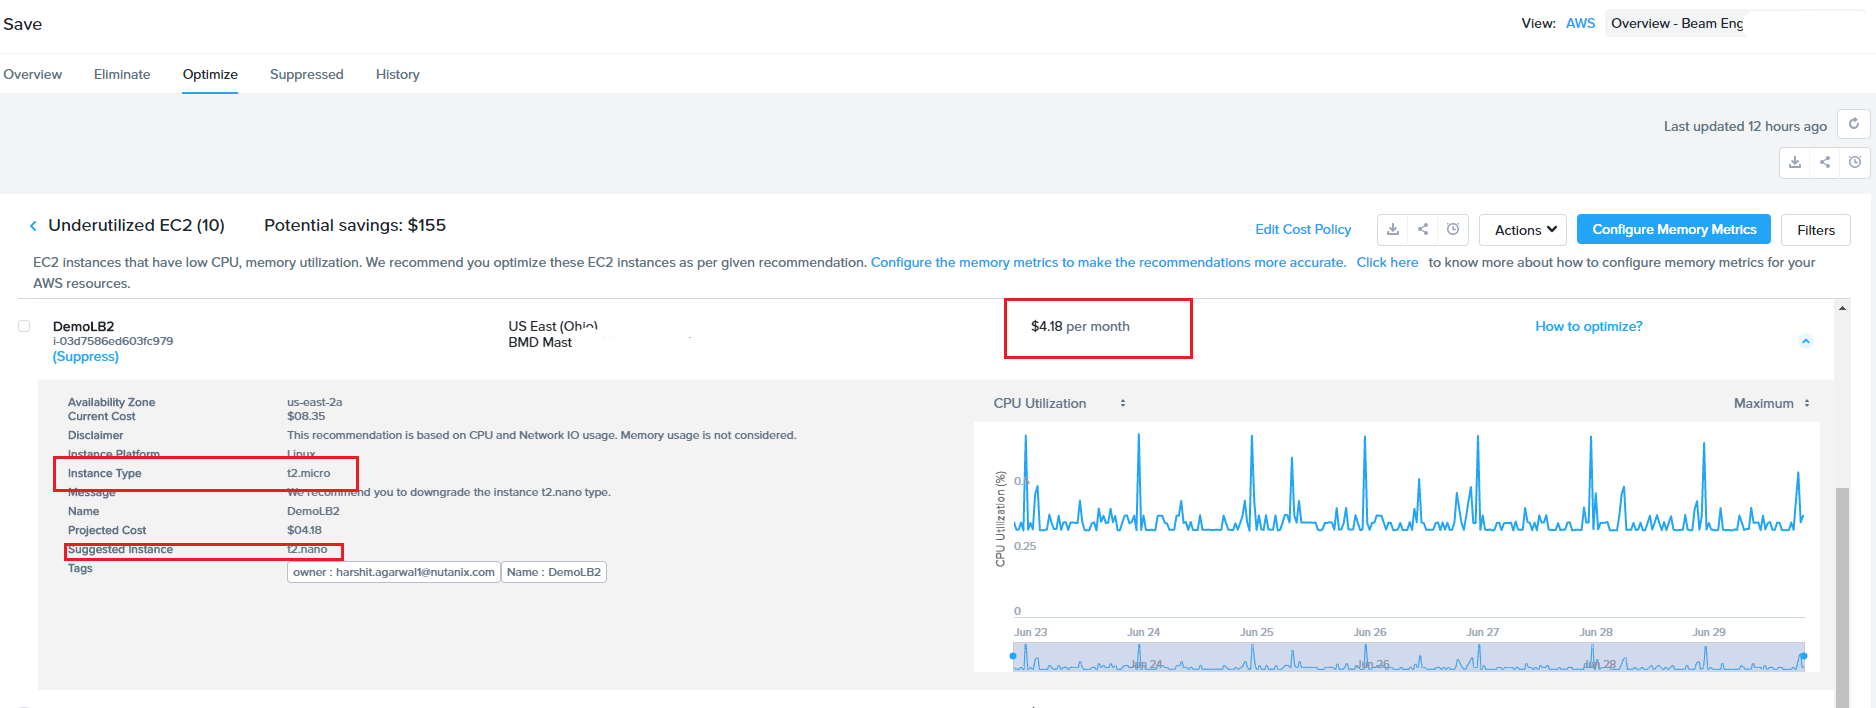
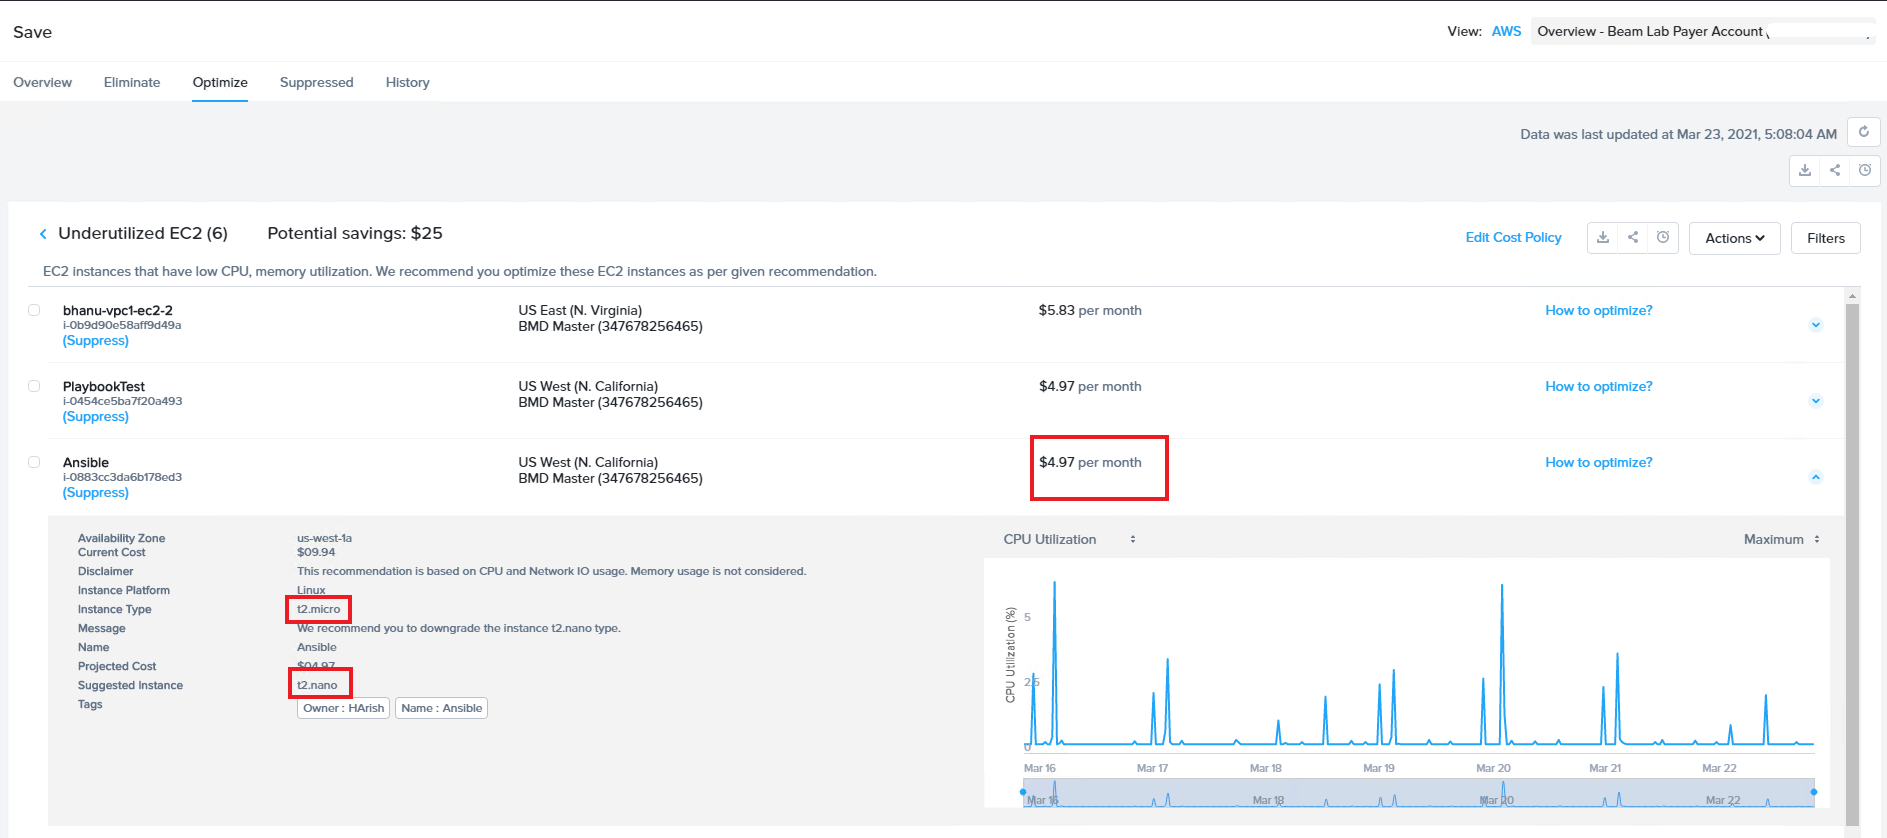
updates from Bhavik

diff --git a/beam_cost_governance/beam_cost_governance.rst b/beam_cost_governance/beam_cost_governance.rst
@@ -6,7 +6,7 @@
 Cost Governance with Xi Beam
 ----------------------------
 
-Xi Beam is a cost governance and security compliance service that works with both public clouds and Nutanix Private Cloud. This lab introduces Beam’s cost governance capabilities for Nutanix and AWS. Similar capabilities are available for Azure. Beam's on-premise cost governance capabilities are now licensed under the Prism Ultimate offering. 
+Xi Beam is a cost governance and security compliance service that works with both public clouds and Nutanix Private Cloud. This lab introduces Beam’s cost governance capabilities for Nutanix and AWS. Similar capabilities are available for Azure.
 
 .. figure:: images/beam_vm_costing.png
 
@@ -59,7 +59,7 @@ Beam is a SaaS service and does not require any on-premises installation for cos
 
 	.. figure:: images/beam_02.png
 	
-#. Next if it shows a View Selector screen, Select Nutanix and account shown.
+#. Next from View Selector screen, Select Nutanix and account shown.
 	
 	.. figure:: images/beam_03
 
@@ -88,7 +88,9 @@ Product Costs
 
 The next step is to ensure Beam has accurate license cost data for all Nutanix products.
 
-#. From the menu icon at the top left of the portal, select **Configure > Nutanix Cost Configuration**.
+#. Under **Cost Configuration**, select **Nutanix**.
+
+	.. figure:: images/beam_04b.png
 
 	Once you’ve entered the license key, Beam populates the customer's entire Nutanix purchase history from their Salesforce account. Beam automatically populates product costs based on assumed market price for all Nutanix products - hardware and software. The actual cost paid by customers may vary slightly depending on the final pricing from Nutanix resellers, which is unavailable to Beam.
 
@@ -101,11 +103,11 @@ The next step is to ensure Beam has accurate license cost data for all Nutanix p
 TCO Configuration
 .................
 
-Beam uses a built-in **total cost of ownership (TCO) model** for Nutanix that provides out-of-the-box visibility into the true cost of running the Nutanix private cloud. These costs are eventually used to calculate granular VM level costs. It is important to configure the TCO model accurately so that you have more accurate VM costs.
+Beam uses a built-in **Total Cost of Ownership (TCO) model** for Nutanix that provides out-of-the-box visibility into the true cost of running the Nutanix private cloud. These costs are eventually used to calculate granular VM level costs. It is important to configure the TCO model accurately so that you have more accurate VM costs.
 
 The TCO model includes several cost heads that are automatically populated depending on the number of Nutanix nodes and some industry standards that are built into the model. The out-of-the-box TCO calculations provide a good faith level of accuracy and can be further fine-tuned to customer specifics. Learn how to configure the TCO model:
 
-#. In **Configure > Nutanix Cost Configuration**, select the **Cluster** tab, and search for cluster ID ending in **4d3b**.
+#. In **Configure > Nutanix Cost Configuration**, select the **Cluster** tab, and search for cluster ID ending in **7908**.
 
 #. Click on **Edit TCO** next to that cluster.
 
@@ -174,7 +176,7 @@ Next, the cluster level costs are automatically allocated to individual VMs runn
 
 The total cluster level costs (calculated using the TCO model) are allocated to each VM depending on the number of hours that the VM is up and running and the capacity allocated to that VM relative to the overall capacity on the cluster. The CBL model is used to calculate cost per vCPU, cost per GB of storage and cost per GB of RAM. Those per unit costs are multiplied by the number of vCPUs, storage and memory allocated to each VM to get total VM costs. These VM costs are calculated out-of-the-box without needing any customer configuration.
 
-#. From the menu item at top left, select **Analyze > VM Costing** and search for **Cluster ID** ending in **4d3b**.
+#. From the menu item at top left, select **Analyze > VM Costing** and search for **Cluster ID** ending in **7908**.
 
 	.. figure:: images/beam_14.png
 
@@ -221,8 +223,8 @@ Creating a Cost Center
 #. Fill out the following fields:
 
 	- **Cloud** - Nutanix
-	- **Parent Account** - Nutanix Cost Demo Account
-	- **Sub Accounts** - *Search for the Cluster ID ending in* 4d3b
+	- **Parent Account** - Beam Lab Nutanix Account
+	- **Sub Accounts** - *Search for the Cluster ID ending in* 7908
 	- **Key Set** - nx:App
 	- **Value Set** - *Select any available* VDI### *value*
 
@@ -244,10 +246,10 @@ Creating a Cost Center
 	Fill out the following fields:
 
 	- **Cloud** - AWS
-	- **Parent Account** - Beam Engg
-	- **Sub Accounts** -  Beam Engg
-	- **Key Set** - user:user
-	- **Value Set** - *Select any available* user### *value*
+	- **Parent Account** - Beam Lab Payer Account
+	- **Sub Accounts** -  Beam Lab Payeer Account
+	- **Key Set** - user
+	- **Value Set** - *Select any available* user## *value*
 
 	.. note::
 
@@ -277,7 +279,7 @@ Not all cloud resources may be tagged with key-pairs that you specify in cost ce
 
 #. Navigate to the **Chargeback > Unallocated** spend view.
 
-#. Search for the cluster ID ending in **4d3b**.
+#. Search for the cluster ID ending in **7908**.
 
 #. Click on **View Details** to see the details of spend on this cluster that did not get allocated to any cost center.
 
@@ -287,7 +289,7 @@ Not all cloud resources may be tagged with key-pairs that you specify in cost ce
 
 #. You can also split the spend across multiple cost centers. Select the cost center you had created, **XY-BeamLab**, and allocate 100% of the spend of this VM to that cost center. You only need to do this once. Any future spending by the same VM will be automatically allocated to that cost center. The same Chargeback process can also be done for public cloud resource costs.
 
-	.. figure:: images/beam_24b.png
+	.. figure:: images/beam_24.png
 
 	This feature is extremely helpful to identify shadow spending outside of a customer’s cost center and business unit structure, and allows a financial admin to more accurately map cloud consumption to appropriate owners so that customers can be aware of who is responsible for spending in their cloud.
 
@@ -304,7 +306,7 @@ In this exercise you will define a budget for a cost center and set up a related
 
 	Alternatively, Beam also allows you to create a custom resource group using a combination of accounts, services, and tags, and then set up budget alerts on the custom resource group.
 
-#. Select the **Cost Center** you created in the previous exercise.
+#. Select the **Cost Center** you created in the previous exercise and click **Next**.
 
 	.. figure:: images/beam_26.png
 
@@ -312,7 +314,7 @@ In this exercise you will define a budget for a cost center and set up a related
 
 	This will allow you to customize values for the budget at an yearly, quarterly or monthly level.
 
-#. Enter the annual budget to be $100,000. It will be allocated equally to each month.
+#. Enter the annual budget to be $100,000. It will be allocated equally to each month. Click **Next**
 
 	.. figure:: images/beam_27.png
 
@@ -337,23 +339,23 @@ AWS Account Configuration
 
 This section will walk you through how Beam identifies cost savings for public clouds like AWS. In order to configure Beam with AWS, customers will need access to their **AWS Payer account**. Any Linked accounts associated with the Payer account will automatically be identified by Beam.
 
-From the menu at the top left go to **Dashboard** and then in the **view selector**,  select **AWS cloud**, select the **Beam Engg** Payer account.
+From the menu at the top left go to **Dashboard** and then in the **view selector**,  select **AWS cloud**, select the **Beam Lab Payer Account**.
 
 	.. figure:: images/beam_30.png
 
 .. note::
 
-	For the lab environment, an AWS Payer Account named **Beam Engg** has already been configured. You may familiarize yourself with the configuration steps
+	For the lab environment, an AWS Payer Account named **Beam Lab Payer Account** has already been configured. You may familiarize yourself with the configuration steps
 
-#. From the menu at the top left select **Configure > AWS Account**. You will see the **Beam Engg** Payer account that has been configured in this lab. Click on **Manage**
+#. From the menu at the top left select **Configure > AWS Account**. You will see the **Beam Lab Payer Account** Payer account that has been configured in this lab. Click on **Manage**
 
 	.. figure:: images/beam_30a.png
 
-#. You will see all the linked accounts associated with the **Beam Engg** Payer account have been identified by Beam. In order to find maximum cost savings, it is recommended to run the following configuration steps for the Payer account and each Linked account under that Payer account. For this lab, we will only concern ourselves with the Payer account. Click on **Edit** at the Payer account level.
+#. You will see all the linked accounts associated with the **Beam Lab Payer Account** have been identified by Beam. In order to find maximum cost savings, it is recommended to run the following configuration steps for the Payer account and each Linked account under that Payer account. For this lab, we will only concern ourselves with the Payer account. Click on **Edit** at the Payer account level.
 
 	.. figure:: images/beam_31.png
 
-#. You will see a configuration screen where customers will have to enter their **AWS Cost and Usage Report (CUR)** details. Beam identifies cost spending based on the CUR data. Observe that the CUR name and the AWS S3 storage bucket name where the CUR resides have been configured in the lab setup. Customers can specify their account name, whether they want to give read-only or read and write access to Beam, and generate a CloudFormation Template. They will run the CloudFormation Template by logging into their AWS Payer or Linked accounts to complete the setup. This will create an AWS access role for Beam and allow Beam to read their billing data from the CUR. If they give write access then they will also be able to take various one-click actions from the Beam console to act upon Beam’s cost saving recommendations.
+#. You will see a configuration screen where customers will have to enter their **AWS Cost and Usage Report (CUR)** details. Beam identifies cost spending based on the CUR data. Observe that the CUR name and the AWS S3 storage bucket name where the CUR resides have been configured in the lab setup. Customers can specify their account name, whether they want to give Spend Analysis and Optimize Recommendations to Beam or allow Beam to act on recommendations, and generate a CloudFormation Template. They will run the CloudFormation Template by logging into their AWS Payer or Linked accounts to complete the setup. This will create an AWS access role for Beam and allow Beam to read their billing data from the CUR. If they give write access then they will also be able to take various one-click actions from the Beam console to act upon Beam’s cost saving recommendations.
 
 	.. figure:: images/beam_32.png
 
@@ -374,7 +376,7 @@ Beam identifies cloud resources that have been unused for an extended period of 
 
 	..figure:: images/beam_33.png
 	
-#. Familiarize yourself with the default Beam cost policy. From the toolbar at the top right select **Configure > Cost Policy**
+#. Familiarize yourself with the default Beam cost policy. From the toolbar at the top left select **Configure > Cost Policy**
 
 	.. figure:: images/beam_33a.png
 
@@ -401,7 +403,7 @@ Beam also identifies cloud resources that are being used but not optimally and t
 
 	.. figure:: images/beam_36.png
 
-#. You will see see details of EC2 instances including their resource ID, the cloud account that they are in, and associated cost savings by changing their size from their current size to a downgraded size recommended by Beam. These recommendations are made based on CPU utilization and the optimization rules configured in Beam policy. 
+#. Selet any instance from the list. You will see see details of EC2 instances including their resource ID, the cloud account that they are in, and associated cost savings by changing their size from their current size to a downgraded size recommended by Beam. These recommendations are made based on CPU utilization and the optimization rules configured in Beam policy. 
 
 	.. figure:: images/beam_37.png
 
